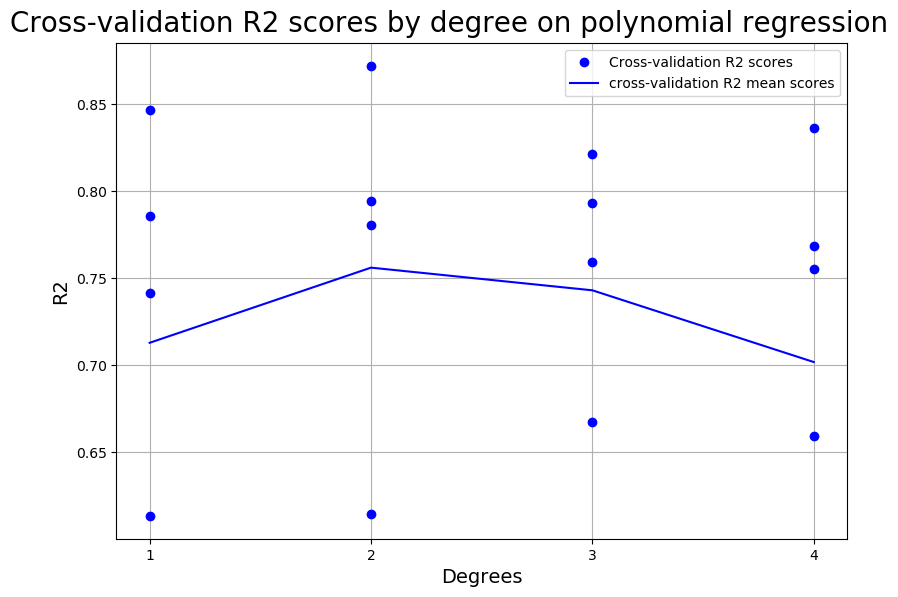
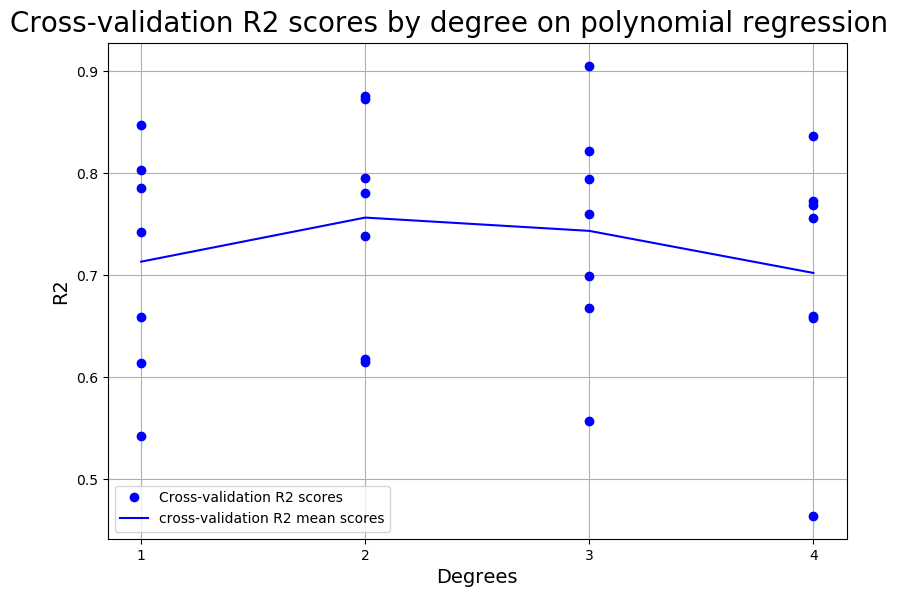
Add files via upload
Error on code corrected.

diff --git a/statistical_plots.py b/statistical_plots.py
@@ -572,7 +572,7 @@ def plot_cross_val_scores(scores, x_array=None, labels=None, x_label='Degrees', 
     if x_array is None:
         x_array = np.arange(scores.shape[1])+1
     fig, ax = plt.subplots()
-    for i in np.arange(scores.shape[1]):
+    for i in np.arange(scores.shape[0]):
         if i == 0:
             ax.plot(x_array, scores[i,:], styles[0], label=labels[0])
         else:
